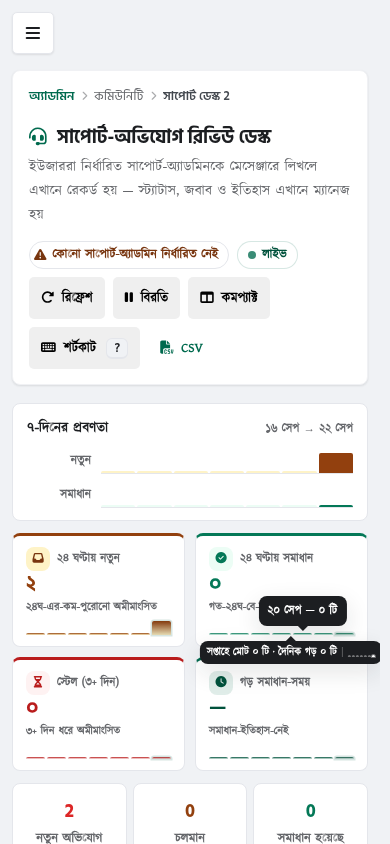
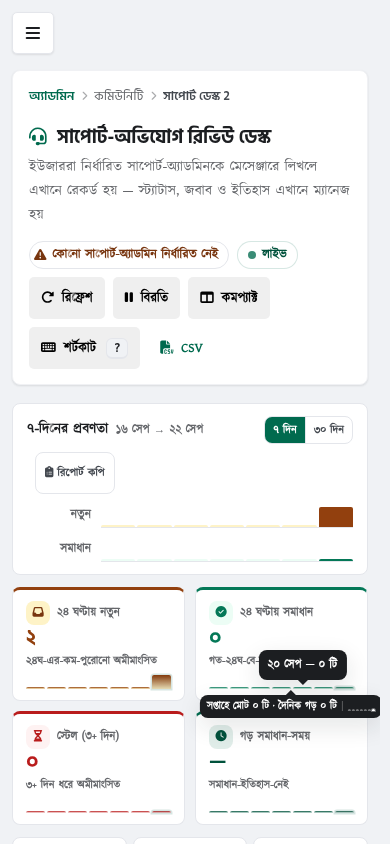
session240: Express support-center রিপোর্ট-ব্যাপ্তি-নির্বাচন প্যাক — ৭/৩০-দিন রিপোর্ট-ব্যাপ্তি (session239-প্রস্তাব বাস্তবায়ন): helpers trendN(rows,now,days)-সাধারণীকরণ (D-গেট শুধু ৭/৩০ — অন্য-মানে ৭-ফলব্যাক; trend7 = trendN(…,7)-ডেলিগেশন — আউটপুট-বাইট-অভিন্ন, পুরোনো-সুইট-অ্যাসার্ট-রক্ষা; export+tr

diff --git a/lekhok-forum/helpers/support-center.js b/lekhok-forum/helpers/support-center.js
@@ -153,28 +153,32 @@ function resolvedAtMs(historyJson) {
   return last;
 }
 
-// ── ৭-দিনের প্রবণতা (session226 — Next session224 trend7-পোর্ট; পিওর-ফাংশন, never-throws) ──
-// সাত-দৈর্ঘ্যের সিরিজ; index 0 = ৬-দিন-আগে … 6 = আজ; দিন-সীমা = স্থানীয়-মাঝরাত; now-ইনজেকশন = ডিটারমিনিস্টিক-টেস্ট
+// ── প্রবণতা-সিরিজ (session226 trend7 → session240 trendN-সাধারণীকরণ; পিওর-ফাংশন, never-throws) ──
+// N-দৈর্ঘ্যের সিরিজ; index 0 = (N-1)-দিন-আগে … N-1 = আজ; দিন-সীমা = স্থানীয়-মাঝরাত; now-ইনজেকশন = ডিটারমিনিস্টিক-টেস্ট
 //   newPerDay      — ওই-দিনে-তৈরি (যে-কোনো-বর্তমান-স্ট্যাটাস)
 //   resolvedPerDay — ওই-দিনে-সমাধান (note_history-র সর্বশেষ RESOLVED)
-//   stalePerDay    — আজ (6) = staleCount(rows)-সমস্বর (কার্ড-মান-স্পর্শক-গ্যারান্টি);
-//                    পুরাতন-দিন (0..5) = প্রত্ন: দিন-শুরুতে খোলা ও বয়স ≥৭২ঘ (সমাধান-হওয়া = resolve-দিন-পর্যন্ত)
+//   stalePerDay    — আজ (N-1) = staleCount(rows)-সমস্বর (কার্ড-মান-স্পর্শক-গ্যারান্টি);
+//                    পুরাতন-দিন (0..N-2) = প্রত্ন: দিন-শুরুতে খোলা ও বয়স ≥৭২ঘ (সমাধান-হওয়া = resolve-দিন-পর্যন্ত)
 //   avgPerDay      — ওই-দিনে-সমাধান-হওয়ার-গড়-সময় (ঘণ্টা ×১০-রাউন্ড); কেউ-নেই → null
 //   dayLabels      — bn-BD সংক্ষিপ্ত ("২২ সে") — EJS কখনো-নিজে-তারিখ-গণনা-করবে-না
-function trend7(rows, now) {
+// session240-গেট: ব্যাপ্তি-নির্বাচন শুধু ৭/৩০-দিন — অন্য/অবৈধ-মানে ৭-ফলব্যাক (চুক্তি); trend7 = trendN(…,7)-ডেলিগেশন
+// (হুবহু-পুরোনো-আউটপুট — সব-সুইট-অ্যাসার্ট-রক্ষা)
+function trendN(rows, now, days) {
+  const D = (Number(days) === 30) ? 30 : 7;
+  const LAST = D - 1;
   try {
     const NOW = Number(now) || Date.now();
     const DAY = 86400000, HOUR = 3600000;
     const t0d = new Date(NOW); t0d.setHours(0, 0, 0, 0);
     const t0 = t0d.getTime();
-    const newPerDay = [0, 0, 0, 0, 0, 0, 0];
-    const resolvedPerDay = [0, 0, 0, 0, 0, 0, 0];
-    const stalePerDay = [0, 0, 0, 0, 0, 0, 0];
-    const durSum = [0, 0, 0, 0, 0, 0, 0];
-    const durCnt = [0, 0, 0, 0, 0, 0, 0];
+    const newPerDay = new Array(D).fill(0);
+    const resolvedPerDay = new Array(D).fill(0);
+    const stalePerDay = new Array(D).fill(0);
+    const durSum = new Array(D).fill(0);
+    const durCnt = new Array(D).fill(0);
     const bucketOf = (ts) => {
-      const i = Math.floor((ts - (t0 - 6 * DAY)) / DAY);
-      return (i >= 0 && i <= 6 && ts >= t0 - 6 * DAY) ? i : -1;
+      const i = Math.floor((ts - (t0 - LAST * DAY)) / DAY);
+      return (i >= 0 && i <= LAST && ts >= t0 - LAST * DAY) ? i : -1;
     };
     for (const r of (rows || [])) {
       if (!r) continue;
@@ -191,30 +195,34 @@ function trend7(rows, now) {
           if (durH >= 0) { durSum[ri] += durH; durCnt[ri]++; }
         }
       }
-      // প্রত্ন-স্টেল (index 0..5): দিন-D-শুরুতে খোলা ও বয়স ≥৭২ঘ (আজ = staleCount সরাসরি — সমস্বর-গ্যারান্টি)
-      for (let i = 0; i < 6; i++) {
-        const dS = t0 - (6 - i) * DAY;
+      // প্রত্ন-স্টেল (index 0..LAST-1): দিন-D-শুরুতে খোলা ও বয়স ≥৭২ঘ (আজ = staleCount সরাসরি — সমস্বর-গ্যারান্টি)
+      for (let i = 0; i < LAST; i++) {
+        const dS = t0 - (LAST - i) * DAY;
         if (created <= dS - 3 * DAY) {
           const openOnD = r.status !== 'RESOLVED' ? true : (rat !== null && rat >= dS);
           if (openOnD) stalePerDay[i]++;
         }
       }
     }
-    stalePerDay[6] = staleCount(rows);
+    stalePerDay[LAST] = staleCount(rows);
     const avgPerDay = durCnt.map((c, i) => (c > 0 ? Math.round((durSum[i] / c) * 10) / 10 : null));
     let dayLabels;
     try {
-      dayLabels = Array.from({ length: 7 }, (_, i) =>
-        new Date(t0 - (6 - i) * DAY).toLocaleDateString('bn-BD', { day: 'numeric', month: 'short' }));
+      dayLabels = Array.from({ length: D }, (_, i) =>
+        new Date(t0 - (LAST - i) * DAY).toLocaleDateString('bn-BD', { day: 'numeric', month: 'short' }));
     } catch (_) {
-      dayLabels = Array.from({ length: 7 }, (_, i) => bnNum(new Date(t0 - (6 - i) * DAY).getDate()));
+      dayLabels = Array.from({ length: D }, (_, i) => bnNum(new Date(t0 - (LAST - i) * DAY).getDate()));
     }
     return { newPerDay, resolvedPerDay, stalePerDay, avgPerDay, dayLabels };
   } catch (_) {
-    const z = [0, 0, 0, 0, 0, 0, 0];
-    return { newPerDay: z.slice(), resolvedPerDay: z.slice(), stalePerDay: z.slice(), avgPerDay: [null, null, null, null, null, null, null], dayLabels: ['', '', '', '', '', '', ''] };
+    const z = new Array(D).fill(0);
+    const zn = new Array(D).fill(null);
+    const zs = new Array(D).fill('');
+    return { newPerDay: z.slice(), resolvedPerDay: z.slice(), stalePerDay: z.slice(), avgPerDay: zn.slice(), dayLabels: zs.slice() };
   }
 }
+
+function trend7(rows, now) { return trendN(rows, now, 7); } // session240 — ডেলিগেশন (আউটপুট-হুবহু-অপরিবর্তিত)
 
 // ── ২৪ঘ-সারাংশ KPI (session227 — trend7-এর-সাথে-একই-উৎস-পরিবার; পিওর, never-throws) ──
 // fresh24       — ২৪ঘ-এর-কম-পুরোনো অমীমাংসিত (এখন-স্ট্যাটাস-খোলা)
@@ -258,5 +266,5 @@ module.exports = {
   SUPPORT_ADMIN_KEY, STATUSES, STATUS_LABEL, MEDIA_TYPES,
   getSupportAdminId, getSupportAdmin, setSupportAdmin, clearSupportAdmin, isSupportAdmin,
   parseHistory, appendHistory, lastNoteOf, agingInfo, staleCount, historySummaryBn, bnNum,
-  createdAtMs, resolvedAtMs, trend7, digestStats, relTimeBn
+  createdAtMs, resolvedAtMs, trend7, trendN, digestStats, relTimeBn
 };

diff --git a/lekhok-forum/tests/s240-unit.js b/lekhok-forum/tests/s240-unit.js
@@ -1,0 +1,37 @@
+#!/usr/bin/env node
+// s240-unit.js — session240 trendN-সাধারণীকরণ রিগ্রেশন (helpers/support-center.js)
+// চালানো: TZ=UTC node tests/s240-unit.js  (trend7-বাকেটিং TZ-নির্ভর — সুইট-পিন UTC; s231-unit-রীতি)
+// চুক্তি: ① trend7 ≡ trendN(…,7) বাইট-অভিন্ন (সব-পুরোনো-সুইট-অ্যাসার্ট-রক্ষা) ② D-গেট শুধু ৭/৩০ — অন্য-মানে ৭-ফলব্যাক
+//         ③ ৩০-দিন-সিরিজে শেষ-ইনডেক্স = staleCount-সমস্বর (কার্ড-মান-স্পর্শক-গ্যারান্টি trend7-চুক্তির-সম্প্রসারণ)
+'use strict';
+const SC = require('../helpers/support-center');
+let P = 0, F = 0;
+function ok(c, m) { if (c) { P++; console.log('  ✓ ' + m); } else { F++; console.log('  ✗ ' + m); } }
+
+const NOW = new Date('2026-09-22T10:00:00Z').getTime();
+const rows = [
+  { id: 1, status: 'PENDING', created_at: '2026-09-22 09:00:00', note_history: null },
+  { id: 2, status: 'PENDING', created_at: '2026-09-17 08:00:00', note_history: null },
+  { id: 3, status: 'RESOLVED', created_at: '2026-09-21 06:00:00',
+    note_history: JSON.stringify([{ t: 'status', from: 'IN_PROGRESS', to: 'RESOLVED', at: '2026-09-21T12:00:00.000Z' }]) },
+];
+const t7 = SC.trend7(rows, NOW);
+const tN7 = SC.trendN(rows, NOW, 7);
+const t30 = SC.trendN(rows, NOW, 30);
+
+ok(JSON.stringify(t7) === JSON.stringify(tN7), 'trend7 ≡ trendN(7) বাইট-অভিন্ন (ডেলিগেশন-চুক্তি)');
+ok(t30.newPerDay.length === 30 && t30.resolvedPerDay.length === 30 && t30.stalePerDay.length === 30 && t30.avgPerDay.length === 30 && t30.dayLabels.length === 30, '৩০-দিন-সিরিজ ×৫-অ্যারে ৩০-দৈর্ঘ্য');
+ok(t30.newPerDay[29] === 1, 'trendN(30) newPerDay[29]=১ (আজ-নতুন — সর্বশেষ-ইনডেক্স)');
+ok(t30.resolvedPerDay[28] === 1, 'trendN(30) resolvedPerDay[28]=১ (গতকাল-সমাধান)');
+ok(t30.stalePerDay[29] === SC.staleCount(rows), 'trendN(30) stalePerDay[29]=staleCount-সমস্বর (স্পর্শক-গ্যারান্টি)');
+ok(t30.newPerDay.slice(0, 21).every(v => v === 0), '৩০-দিন-উইন্ডোর বাইরে-শূন্য (২১+ দিন-পুরোনো-রো নেই)');
+ok(t30.dayLabels[29] === t7.dayLabels[6], 'dayLabels-শেষ-উপাদান সমস্বর (আজ-লেবেল এক-উৎস)');
+ok(SC.trendN(rows, NOW, 15).newPerDay.length === 7, 'D-গেট: অবৈধ-ব্যাপ্তি (15) → ৭-ফলব্যাক');
+ok(SC.trendN(rows, NOW).newPerDay.length === 7, 'D-গেট: days-বিহীন-ডাক → ৭-ফলব্যাক');
+ok(SC.trendN(null, NOW, 30).newPerDay.every(v => v === 0), 'trendN never-throws (null-rows)');
+ok(SC.trendN([{ id: 9, status: 'PENDING', created_at: 'করাপ্ট' }], NOW, 30).newPerDay.every(v => v === 0), 'trendN করাপ্ট-তারিখ-নিরাপদ');
+ok(SC.trendN(rows, NaN, 30).stalePerDay[29] === 1, 'trendN NaN-now-নিরাপদ (Date.now-ফলব্যাক)');
+
+console.log('');
+console.log('s240-unit: ' + P + '/' + (P + F));
+process.exit(F === 0 ? 0 : 1);

diff --git a/lekhok-forum/admin/routes.js b/lekhok-forum/admin/routes.js
@@ -2338,7 +2338,7 @@ router.get('/support-center', requireSupportReviewer, async (req, res) => {
     reports: scDecorate(rows), counts, total, supportAdmin,
     status: filters.status, media: filters.media, q: filters.q, range: filters.range,
     staleN: SC.staleCount(rows), currentPath: '/admin/support-center',
-    trend: SC.trend7(rows), digest: SC.digestStats(rows), bnNum: SC.bnNum
+    trend: SC.trend7(rows), trend30: SC.trendN(rows, null, 30), digest: SC.digestStats(rows), bnNum: SC.bnNum
   });
 });
 

diff --git a/lekhok-forum/PLANS.md b/lekhok-forum/PLANS.md
@@ -2648,3 +2648,13 @@ push-পূর্ব rebase-এ (f629b06) দেখা যায় আরেক
 - **গোটচা ×১ (নতুন):** **QA-হুক-অ্যাসার্টে typeof-কোট** — `JSON.stringify({h:typeof x})` দেয় `"function"` (কোট-যুক্ত) → `h..:function`-গ্রেপ-প্যাটার্ন কখনো-মিলবে-না (s239-প্রথম-রানে-ধরা); বুলিয়ান-চুক্তি ব্যবহার করুন: `{h: typeof x === 'function'}` → `h..:true`।
 - **সুইট-চুক্তি:** s239 = **সিড-শূন্য** (রিপোর্ট-কপি রিড-ওনলি-UI — খালি-ডেস্কেও-গণনা-রেন্ডার; DB-রাইট-শূন্য → CLEANUP-COUNT=0-প্রমাণ); ক্লিপবোর্ড-ওভাররাইড s237-প্যাটার্ন (arm→click→**আলাদা-eval-পড়া** — প্রমিস-মাইক্রোটাস্ক eval-রিটার্নের-পরে-চলে; এক-ই-eval-এ-পড়লে মিথ্যা-শূন্য)।
 - **পরের-এজেন্ট: session240 থেকে।** বাকি-প্রস্তাব: রিপোর্ট-ব্যাপ্তি-নির্বাচন (৭/৩০-দিন — helpers trendN-বিস্তার), Turso/প্রোড-পোর্ট (পরিকল্পনা-গেটে-অক্ষুণ্ণ), stale-সুইট-আধুনিকীকরণ; সুইট-বর্ধনে s239/s238-ই-বেস; push-আগে fetch+rebase-বাধ্যতমূলক।
+
+### session240 — রিপোর্ট-ব্যাপ্তি-নির্বাচন প্যাক (cross-agent নোট)
+
+- **trendN-চুক্তি:** `trendN(rows, now, days)` — **D-গেট শুধু ৭/৩০** (`Number(days)===30` না-হলে ৭); `trend7` = ডেলিগেশন — **আউটপুট-বাইট-অভিন্ন** (unit-অ্যাসার্ট `JSON.stringify`-সমতা); শেষ-ইনডেক্স = আজ (stalePerDay[LAST]=staleCount-স্পর্শক-গ্যারান্টি trend7-চুক্তির-সম্প্রসারণ); নতুন-ব্যাপ্তি (যেমন ৯০-দিন) দরকার হলে গেট-সম্প্রসারণ + unit-অ্যাসার্ট-দুটোই।
+- **দ্বৈত-পেলোড-চুক্তি:** `#scWkReport`-id **অপরিবর্তিত** (s239-অ্যাসার্ট-রক্ষা — নতুন-পেলোড-সর্বদা-নতুন-id); কম্পোজার `scWkReportText(t, days)` — **D=৭-পথ বাইট-অভিন্ন** রাখতে-হবে (s239-টেক্সট-অ্যাসার্ট); নতুন-বিভাগ = কম্পোজারেই (এক-জায়গা)।
+- **ব্যাপ্তি-চুক্তি:** aria-pressed-চুক্তি (seg-বাটন = compact/pause-রীতি); localStorage `sc-wkr` — '৩০'-এ-সেট, '৭'-এ-removeItem (sc-pause-রীতি; unknown-মানে ডিফল্ট ৭); `applyWkRange()` প্রথম-পেইন্টেই; QA-হুক `__scQA.wkRange` অবশ্যই `__scQA.wkCopy`-র-পরে (পুনঃসৃজন-চুক্তি)।
+- **CSS-চুক্তি:** সেগমেন্ট `.sc-wkr{margin-left:auto` — কিন্তু `.sc-trend-head .sc-wkr + .sc-wk-copy{margin-left:8px}`-ওভাররাইডে কপি-কাছে; **`.sc-wk-copy{margin-left:auto`-বেস-রুল-টেক্সট-অক্ষুণ্ণ** (s239-কাঠামো-অ্যাসার্ট — নতুন-নিয়ম যোগ-করলেও পুরোনো-রুল-মুছে-নয়)।
+- **E2E-গোটচা ×১ (নতুন, গুরুত্বপূর্ণ):** **agent-browser eval বাইরের-স্তরে-আবার-JSON-এনকোডড** — `JSON.stringify({r:'30'})`-ফেরত `"{\"r\":\"30\"}"` (আউটপুট-স্ট্রিং-হিসেবে, কোট-এস্কেপড) → স্ট্রিং-মান-অ্যাসার্টে `r..:..30` (কোলনের-**পরে** `..` — ব্যাকস্ল্যাশ+কোট-জোড়া); `r...30`/`r..:.30.`-জাতীয়-প্যাটার্ন মিথ্যা-ফেল (s240-প্রথম-রানে ৫-ফেল); বুলিয়ান `k..:true`-অপরিবর্তিত — মান-শুরু-হয় সরাসরি অক্ষরে।
+- **সুইট-চুক্তি:** s240 = সিড-শূন্য + **ভিতরেই s240-unit-গেট** (FATAL-আগেই); **শেষে localStorage sc-wkr-পরিষ্কার** — নইলে পরের-রাউন্ডের s239-exact-অ্যাসার্ট ক্রস-রান-দূষণে ফেল (ডেমন-প্রোফাইল-স্থায়িত্ব)।
+- **পরের-এজেন্ট: session241 থেকে।** বাকি-প্রস্তাব: Turso/প্রোড-পোর্ট (পরিকল্পনা-গেটে-অক্ষুণ্ণ), stale-সুইট (scripts/test-role-policy.sh) আধুনিকীকরণ, রিপোর্ট-পেলোডে মিডিয়া-বিভাজন-সারাংশ (ঐচ্ছিক); সুইট-বর্ধনে s240/s239-ই-বেস; push-আগে fetch+rebase-বাধ্যতমূলক; AGENT-NOTICE-চেকলিস্ট-মানুন।

diff --git a/worklog.md b/worklog.md
@@ -3716,3 +3716,25 @@ Agent: Z.ai Code (main session, cron 403679, web-26d1f0e9)
 - LEKHOK_ROOT-এক্সপ্লিসিট-রীতি: স্যান্ডবক্স-পুনঃসূচনার-পরে সুইট-রানে সর্বদা `LEKHOK_ROOT=<রিপো-রুট>` দিন
 - Task43-ফিচার-এরিয়া QA-রিগ্রেশন-ছাড়া স্পর্শ-নয়; বাকি-প্রস্তাব: Turso/проД-পোর্ট (পরিকল্পনা-গেট), পুরোনো-stale-সুইট (scripts/test-role-policy.sh) আধুনিকীকরণ — পরিকল্পনা-ছাড়া-বড়-কাজ-শুরু-নয়
 - পরের-এজেন্ট: session236 লেবেল; PLANS session235-নোট অবশ্যই পড়ুন; push-আগে fetch+rebase-বাধ্যতমূলক
+
+---
+Task ID: 81 (session240 — cron 403679; রিপোর্ট-ব্যাপ্তি-নির্বাচন ৭/৩০-দিন + trendN-সাধারণীকরণ প্যাক)
+Agent: Z.ai Code (main session, cron 403679, web-26d1f0e9)
+Task: cron-নির্দেশ — অবস্থা-যাচাই → agent-browser QA → ফিক্স/ফিচার → worklog
+
+## বর্তমান প্রজেক্ট-অবস্থা (যাচাইকৃত)
+- HEAD=origin=`9f1aafa` (session239) থেকে রাউন্ড-শুরু (behind 0/ahead 0; working-tree ক্লিন); টোকেন ২০০-ভ্যালিড (GH /user + Vercel /v9, .secrets/); live 200
+- **stale-হ্যান্ডওভার-সামারি ×১০-বার-খণ্ডনিত:** সামারি Task43/device-code-যুগ ("commit-হয়নি/টোকেন-নেই") দেখাচ্ছিল — প্রকৃত-অবস্থা origin session239-পুশড, টোকেন-সক্রিয়; my-project-worklog session236-এ-শেষ থাকলেও repo-র সত্য-উৎস = repo-worklog+PLANS+HEAD (parallel-রাউন্ড session237-239 repo-তে-নথিভুক্ত)
+- রাউন্ড-শুরু QA: **পূর্ণ-ব্যাটারি ২৯৫/২৯৫** প্রথম-রানেই-গ্রিন + CLEANUP-শূন্য → বাগ-শূন্য → ফিচার-রাউন্ড (session239-বাকি-প্রস্তাব: রিপোর্ট-ব্যাপ্তি-নির্বাচন)
+
+## এ-রাউন্ডে সম্পন্ন
+- **[Mandatory-ফিচার] রিপোর্ট-ব্যাপ্তি-নির্বাচন (৭/৩০-দিন):** helpers `trendN(rows, now, days)` (D-গেট শুধু ৭/৩০; trend7 = ডেলিগেশন — আউটপুট-বাইট-অভিন্ন; export+trendN) + রুটে trend30 + সেগমেন্ট `#scWkR7/#scWkR30` (aria-pressed) + দ্বৈত-পেলোড `#scWkReport`(id-অপরিবর্তিত)+`#scWkReport30` + কম্পোজার `scWkReportText(t, days)` (D=৭-বাইট-অভিন্ন) + ক্লায়েন্ট wkRange/localStorage `sc-wkr`-স্মরণ + QA-হুক `__scQA.wkRange` + সহায়িকা-সারি
+- **[Mandatory-স্টাইল]:** সেগমেন্ট-কন্ট্রোল (এক-টুকরা-বর্ডার + বিভাজক + pressed=accent-ভরাট tabular-nums + hover-soft + focus-inset-রিং + 640px + reduced-motion-নিরাপদ)
+- **টেস্ট:** tests/s240-unit.js **১২/১২** (trend7≡trendN(7)-বাইট-সমতা + গেট + never-throws) + tests/s240-rng-suite.sh **৪৪/৪৪** (রিপো-কমিটেড; ভিতরে-ইউনিট-গেট; সিড-শূন্য; শেষে sc-wkr-পরিষ্কার); **পূর্ণ-রিগ্রেশন ৩৫১/৩৫১** (পুরাতন ২৯৫ + s240 ×২) + secret-scan-ক্লিন + স্ক্রিনশট ×২ (s240-rng-desk, s240-rng-mobile390)
+- **নতুন-গোটচা ×১ (PLANS session240-নোট):** agent-browser eval-ফেরত বাইরের-স্তরে-আবার-JSON-এনকোডড (`{\"k\":\"v\"}`) → স্ট্রিং-মান-গ্রেপ `k..:..v` (কোলন-পরবর্তী ২-ডট); বুলিয়ান `k..:true`-অপরিবর্তিত — s240-প্রথম-রানের ৫-মিথ্যা-ফেলের-মূল-কারণ
+- ডক ×৩ (PROJECT §২৪০ + PLANS session240-নোট + repo-worklog এ-এন্ট্রি) + my-project-worklog Task 81 → push
+
+## ঝুঁকি ও পরবর্তী
+- Turso/প্রোড-পোর্ট = পরিকল্পনা-গেটে-অক্ষুণ্ণ; টোকেন-নীতি অক্ষুণ্ণ (V3 .secrets/-এ-সক্রিয়; মুখোশ-ছাড়া-কখনো-প্রদর্শন-নয়)
+- পরের-এজেন্ট: **session241 লেবেল (worklog Task ID 82)**; PLANS session240-নোট অবশ্যই-পড়ুন (trendN-গেট + দ্বৈত-পেলোড + eval-এনকোড-গোটচা); push-আগে fetch+rebase-বাধ্যতমূলক; নতুন-সুইট tests/ এ-কমিট
+- রিমোট main = এ-রাউন্ডের session240-কমিট (push-পরবর্তী hash কমিট-লগে); working-tree ক্লিন
